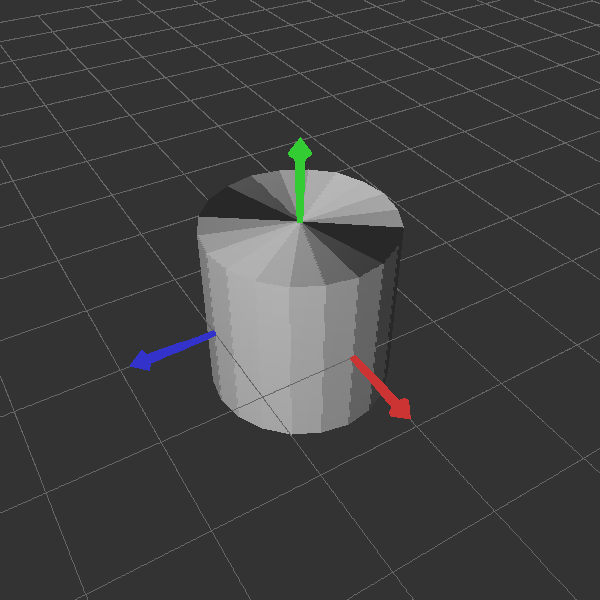
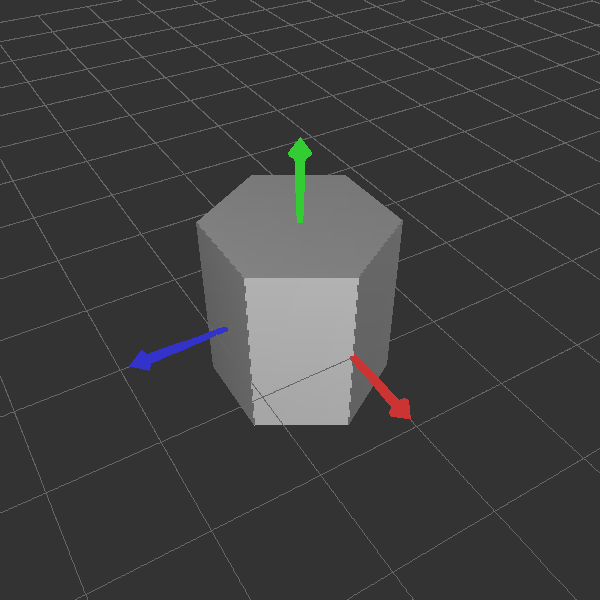
friyay

Changed region(s): [[0.33, 0.27, 0.69, 0.75]]

diff --git a/model/src/modeler/shape/Cylinder.java b/model/src/modeler/shape/Cylinder.java
@@ -22,6 +22,10 @@ public class Cylinder extends Shape {
 	 */
 	public Cylinder() {}
 
+	//? Questions
+	//should we be duplicating the vertices or reusing vertices for the sides of the cylinder
+	//and what should the normals be for the vertices
+
 	/**
 	 * @see modeler.shape.Shape#buildMesh()
 	 */
@@ -36,6 +40,7 @@ public class Cylinder extends Shape {
 		}
 
 		//get the flatness tolerance
+		//todo recalculate these when the slider changes
 		float flatnessTolerance = Shape.TOLERANCE;
 
 		//do all these calculations to get triangle points around cylinder
@@ -49,19 +54,19 @@ public class Cylinder extends Shape {
 		System.out.println("-------------------------");
 		System.out.println("flatnessTolerance: " + flatnessTolerance);
 		System.out.println("numFacets: " + numFacets);
-		// System.out.println("Vertices:");
-		// for (Point3f vertex : vertices) {
-		// 	System.out.println(vertex);
-		// }
+		System.out.println("Vertices:");
+		for (Point3f vertex : vertices) {
+			System.out.println(vertex);
+		}
 		System.out.println("Normals:");
 		for (Vector3f normal : normals) {
 			System.out.println(normal);
 		}
-		// System.out.println("Triangles:");
-		// for (Point3i triangle : triangles) {
-		// 	System.out.println(triangle);
-		// }
-		// System.out.println("-------------------------");
+		System.out.println("Triangles:");
+		for (Point3i triangle : triangles) {
+			System.out.println(triangle);
+		}
+		System.out.println("-------------------------");
 
 		//Build the mesh data arrays from the static mesh data
 		int vertLength = vertices.length;
@@ -98,7 +103,23 @@ public class Cylinder extends Shape {
 	int generateFacets(float flatnessTolerance)
 	{
 		//todo .014 should be 20 facets
-		int numFacets = 20;
+		//todo fix this process
+		
+		//numFacets must be even integers that result in flattness less than flatness tolerance
+
+		int numFacets = 6;
+		float flatness = 0.0f;
+		//loop through until we find an N that produces flatness greater than the flatnessTolerance
+		while (flatness < flatnessTolerance)
+		{
+			//1 - cos(360/2n)
+			flatness = 1 - cos(360/2*numFacets);
+			//increment
+			numFacets= numFacets+2;
+		}
+
+		//flatness exceeded, go back a step and be done
+		numFacets = numFacets-2;
 
 		return numFacets;
 	}
@@ -107,8 +128,8 @@ public class Cylinder extends Shape {
 	{	
 		int numVertices = numFacets+1;
 		double angleIncrement = 360.0f / numFacets;
-		Point3f[] vertices = new Point3f[numVertices*2];
-		// Point3f[] vertices = new Point3f[numVertices*2*2];
+		//Point3f[] vertices = new Point3f[numVertices*2];
+		Point3f[] vertices = new Point3f[numVertices*2*2];
 
 		// Calculate vertices for the bottom layer
 		for (int i=0; i < numVertices; i++) {
@@ -137,9 +158,9 @@ public class Cylinder extends Shape {
 			}
 		}
 
-		// // Duplicate the vertices for the bottom and top layers to be used for sides
-		// System.arraycopy(vertices, 0, vertices, numVertices * 2, numVertices);
-		// System.arraycopy(vertices, numVertices, vertices, numVertices * 3, numVertices);
+		// Duplicate the vertices for the bottom and top layers to be used for sides
+		System.arraycopy(vertices, 0, vertices, numVertices * 2, numVertices);
+		System.arraycopy(vertices, numVertices, vertices, numVertices * 3, numVertices);
 
 		return vertices;
 	}
@@ -148,24 +169,23 @@ public class Cylinder extends Shape {
 	{
 		int numNormals = numFacets+1;
 		double angleIncrement = 360.0f / numFacets;
-		Vector3f[] normals = new Vector3f[numNormals*2];
-
-		//Vector3f[] normals = new Vector3f[numNormals*2*2];
+		//Vector3f[] normals = new Vector3f[numNormals*2];
+		Vector3f[] normals = new Vector3f[numNormals*2*2];
 
 		//generate normals for bottom layer
 		Vector3f bottomNormal = new Vector3f(0.0f, -1.0f, 0.0f);
 		for (int i = 0; i < numNormals; i++) 
 		{
-            //normals[i] = bottomNormal;
-			double angle= i * angleIncrement;
-			float x = CYLINDER_RADIUS * cos(Math.toRadians(angle));
-			float z = CYLINDER_RADIUS * sin(Math.toRadians(angle));
-			normals[i] = new Vector3f(x, -1.0f, z);
-			if (i == numNormals-1)
-			{
-				normals[i] = bottomNormal;
-			}
-			normals[i].normalize();
+            normals[i] = bottomNormal;
+			// double angle= i * angleIncrement;
+			// float x = CYLINDER_RADIUS * cos(Math.toRadians(angle));
+			// float z = CYLINDER_RADIUS * sin(Math.toRadians(angle));
+			// normals[i] = new Vector3f(x, -1.0f, z);
+			// if (i == numNormals-1)
+			// {
+			// 	normals[i] = bottomNormal;
+			// }
+			// normals[i].normalize();
         }
 
 		//generate normals for top layer
@@ -173,37 +193,37 @@ public class Cylinder extends Shape {
 		Vector3f topNormal = new Vector3f(0.0f, 1.0f, 0.0f);
 		for (int i = numNormals; i < numNormals*2; i++) 
 		{
-			//normals[i] = topNormal;
-			double angle= (i-numNormals) * angleIncrement;
-			float x = CYLINDER_RADIUS * cos(Math.toRadians(angle));
-			float z = CYLINDER_RADIUS * sin(Math.toRadians(angle));
-			normals[i] = new Vector3f(x, 1.0f, z);
-			if (i == numNormals*2-1)
-			{	
-				normals[i] = topNormal;
-			}
-			normals[i].normalize();
+			normals[i] = topNormal;
+			// double angle= (i-numNormals) * angleIncrement;
+			// float x = CYLINDER_RADIUS * cos(Math.toRadians(angle));
+			// float z = CYLINDER_RADIUS * sin(Math.toRadians(angle));
+			// normals[i] = new Vector3f(x, 1.0f, z);
+			// if (i == numNormals*2-1)
+			// {	
+			// 	normals[i] = topNormal;
+			// }
+			// normals[i].normalize();
 		}
 		
-		// //generate normals for side vertices (bottom layer)
-		// for (int i = numNormals*2; i < numNormals*3; i++) 
-		// {
-		// 	double angle= (i-numNormals*2) * angleIncrement;
-		// 	float x = CYLINDER_RADIUS * cos(Math.toRadians(angle));
-		// 	float z = CYLINDER_RADIUS * sin(Math.toRadians(angle));
-		// 	normals[i] = new Vector3f(x, 0.0f, z);
-		// 	normals[i].normalize();
-		// }
+		//generate normals for side vertices (bottom layer)
+		for (int i = numNormals*2; i < numNormals*3; i++) 
+		{
+			double angle= (i-numNormals*2) * angleIncrement;
+			float x = CYLINDER_RADIUS * cos(Math.toRadians(angle));
+			float z = CYLINDER_RADIUS * sin(Math.toRadians(angle));
+			normals[i] = new Vector3f(x, 0.0f, z);
+			normals[i].normalize();
+		}
 
-		// //generate normals for side vertices (top layer)
-    	// for (int i = numNormals*3; i < numNormals*4; i++) 
-		// {
-		// 	double angle=(i-numNormals*3) * angleIncrement;
-		// 	float x = CYLINDER_RADIUS * cos(Math.toRadians(angle));
-		// 	float z = CYLINDER_RADIUS * sin(Math.toRadians(angle));
-		// 	normals[i] = new Vector3f(x, 0.0f, z);
-		// 	normals[i].normalize();
-    	// }
+		//generate normals for side vertices (top layer)
+    	for (int i = numNormals*3; i < numNormals*4; i++) 
+		{
+			double angle=(i-numNormals*3) * angleIncrement;
+			float x = CYLINDER_RADIUS * cos(Math.toRadians(angle));
+			float z = CYLINDER_RADIUS * sin(Math.toRadians(angle));
+			normals[i] = new Vector3f(x, 0.0f, z);
+			normals[i].normalize();
+    	}
 
 		return normals;
 	}
@@ -249,50 +269,50 @@ public class Cylinder extends Shape {
 			triangles[i-1] = new Point3i(vertex3, vertex2, vertex1);
 		}
 
-		//generate sides of triangle using existing vertices
-		int triangleIndex=numFacets*2;
-		for (int i = 0; i < numFacets; i++) {
-			int bottomVertex1 = i;
-			int bottomVertex2 = i + 1;
+		// //generate sides of triangle using existing vertices
+		// int triangleIndex=numFacets*2;
+		// for (int i = 0; i < numFacets; i++) {
+		// 	int bottomVertex1 = i;
+		// 	int bottomVertex2 = i + 1;
 
-			int topVertex1 = i + (numFacets+1);
-			int topVertex2 = i + (numFacets+1) + 1;
-
-			//ensure last triangle loops back
-			if (i == numFacets-1)
-			{
-				bottomVertex2 = 0;
-				topVertex2 = numFacets+1;
-			}
-
-			triangles[triangleIndex] = new Point3i(bottomVertex1, topVertex1, bottomVertex2);
-			triangleIndex++;
-			triangles[triangleIndex] = new Point3i(bottomVertex2, topVertex1, topVertex2);
-			triangleIndex++;
-
-		}
-
-		//generate sides of triangle using duplicated vertices
-		//account for the extra origin vertices
-		// int sideStart = numFacets * 2;
-		// for (int i = sideStart; i < numFacets*3; i++)
-		// {
-		// 	int bottomVertex1 = i+2;
-		// 	int bottomVertex2 = i+2+1;
-
-		// 	int topVertex1 = i+(numFacets+3);
-		// 	int topVertex2 = i+(numFacets+3)+1;
+		// 	int topVertex1 = i + (numFacets+1);
+		// 	int topVertex2 = i + (numFacets+1) + 1;
 
 		// 	//ensure last triangle loops back
-		// 	if (i == numFacets*3-1)
+		// 	if (i == numFacets-1)
 		// 	{
-		// 		bottomVertex2 = sideStart+2;
-		// 		topVertex2 = sideStart+(numFacets+3);
+		// 		bottomVertex2 = 0;
+		// 		topVertex2 = numFacets+1;
 		// 	}
 
-		// 	triangles[i] = new Point3i(bottomVertex1, topVertex1, bottomVertex2);
-		// 	triangles[i + numFacets] = new Point3i(bottomVertex2, topVertex1, topVertex2);
+		// 	triangles[triangleIndex] = new Point3i(bottomVertex1, topVertex1, bottomVertex2);
+		// 	triangleIndex++;
+		// 	triangles[triangleIndex] = new Point3i(bottomVertex2, topVertex1, topVertex2);
+		// 	triangleIndex++;
+
 		// }
+
+		// generate sides of triangle using duplicated vertices
+		// account for the extra origin vertices
+		int sideStart = numFacets * 2;
+		for (int i = sideStart; i < numFacets*3; i++)
+		{
+			int bottomVertex1 = i+2;
+			int bottomVertex2 = i+2+1;
+
+			int topVertex1 = i+(numFacets+3);
+			int topVertex2 = i+(numFacets+3)+1;
+
+			//ensure last triangle loops back
+			if (i == numFacets*3-1)
+			{
+				bottomVertex2 = sideStart+2;
+				topVertex2 = sideStart+(numFacets+3);
+			}
+
+			triangles[i] = new Point3i(bottomVertex1, topVertex1, bottomVertex2);
+			triangles[i + numFacets] = new Point3i(bottomVertex2, topVertex1, topVertex2);
+		}
 
 		return triangles;
 	}
